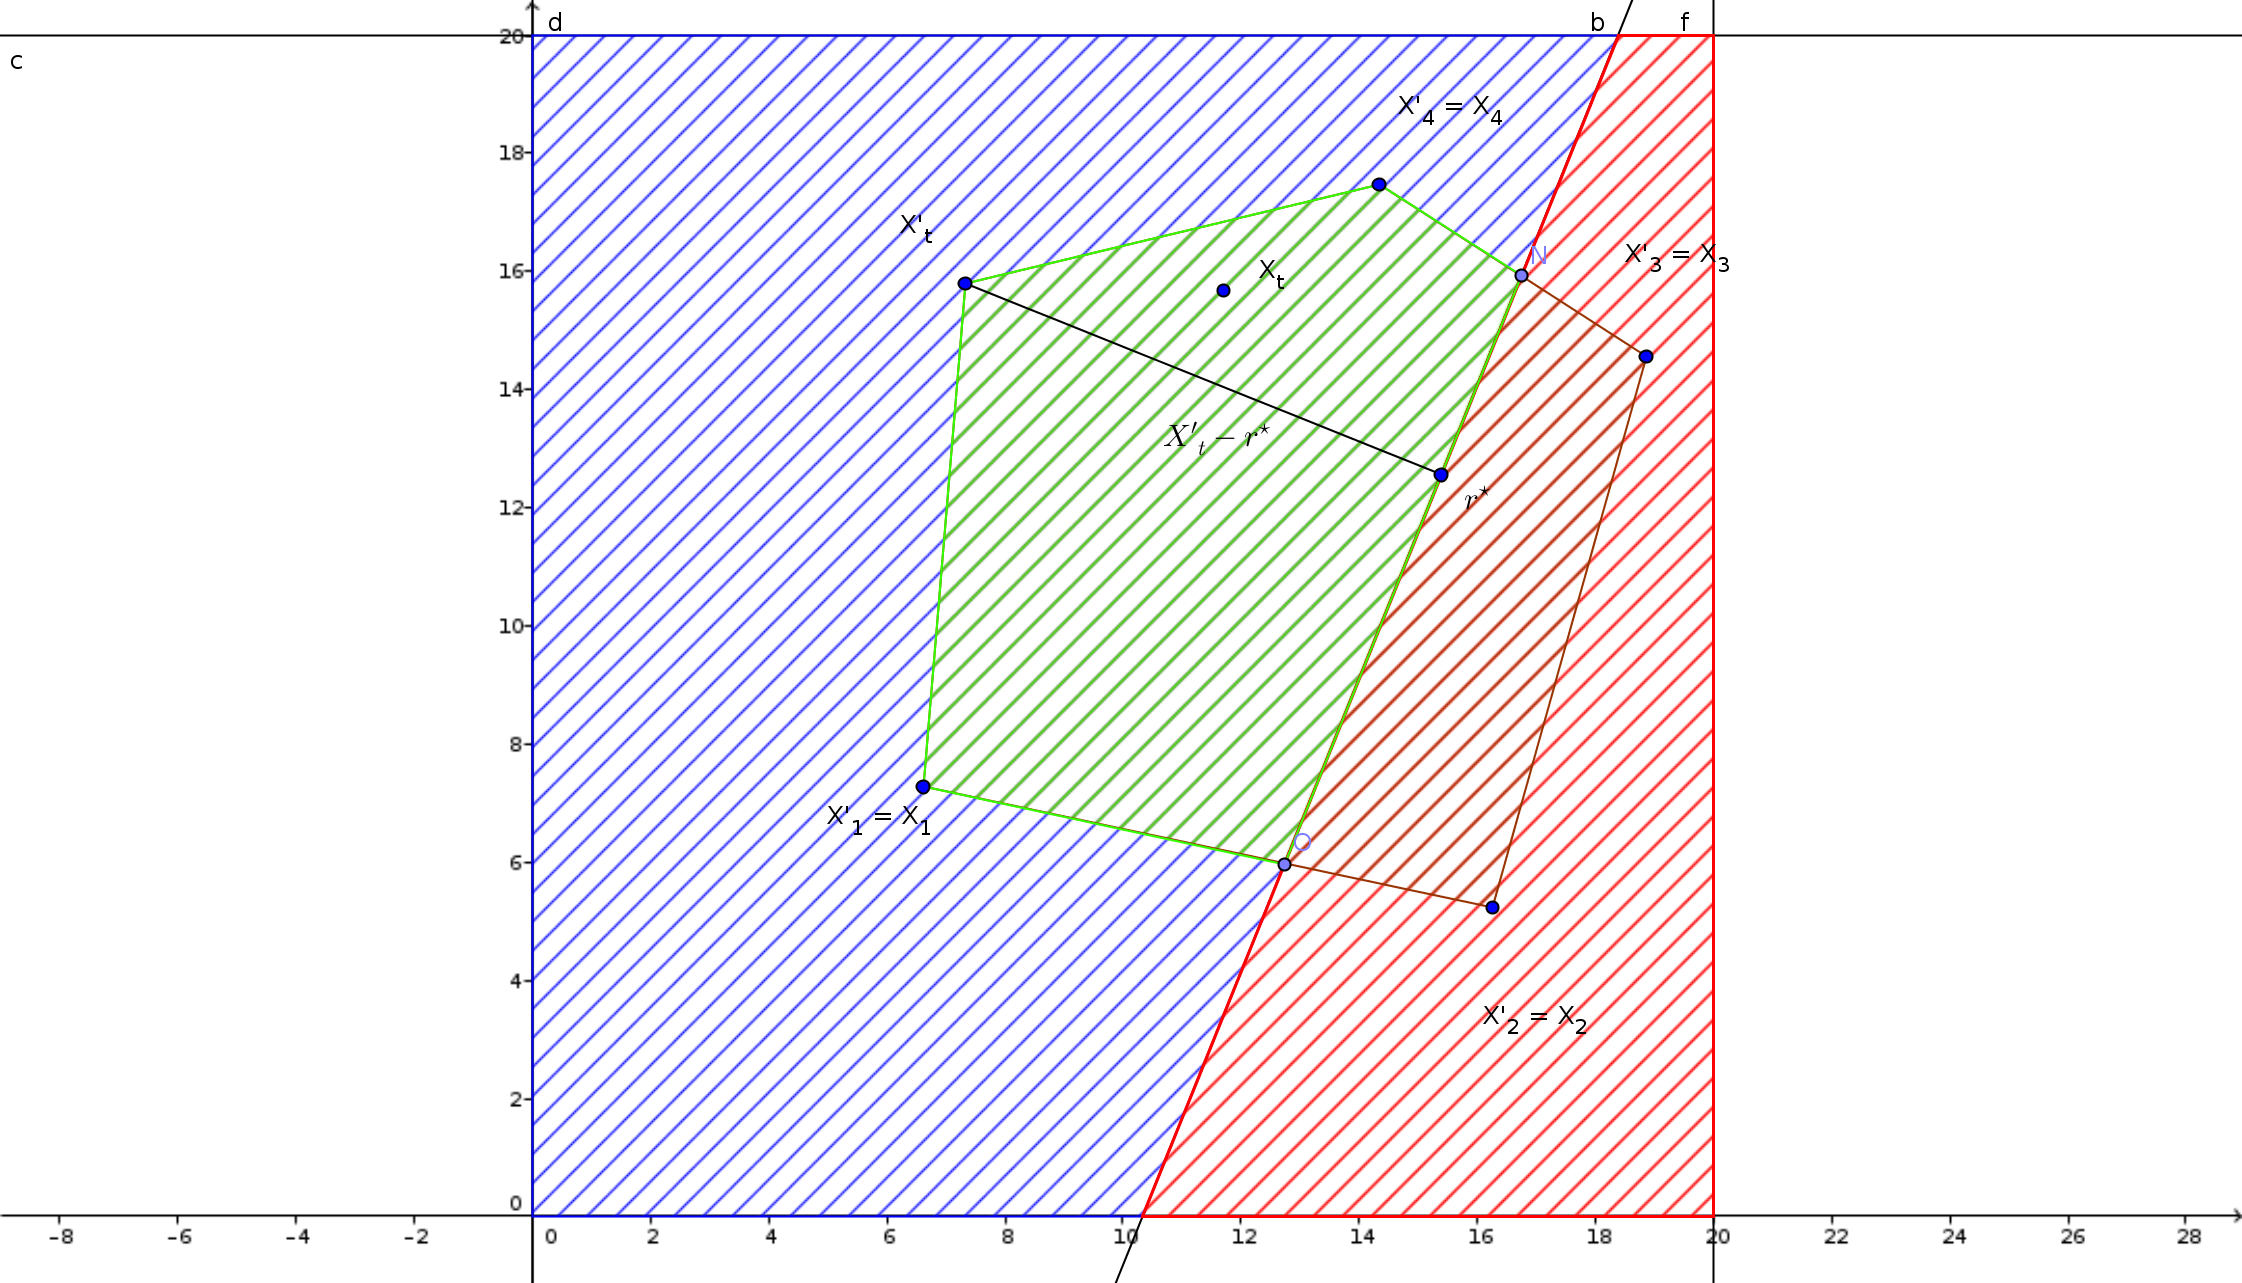
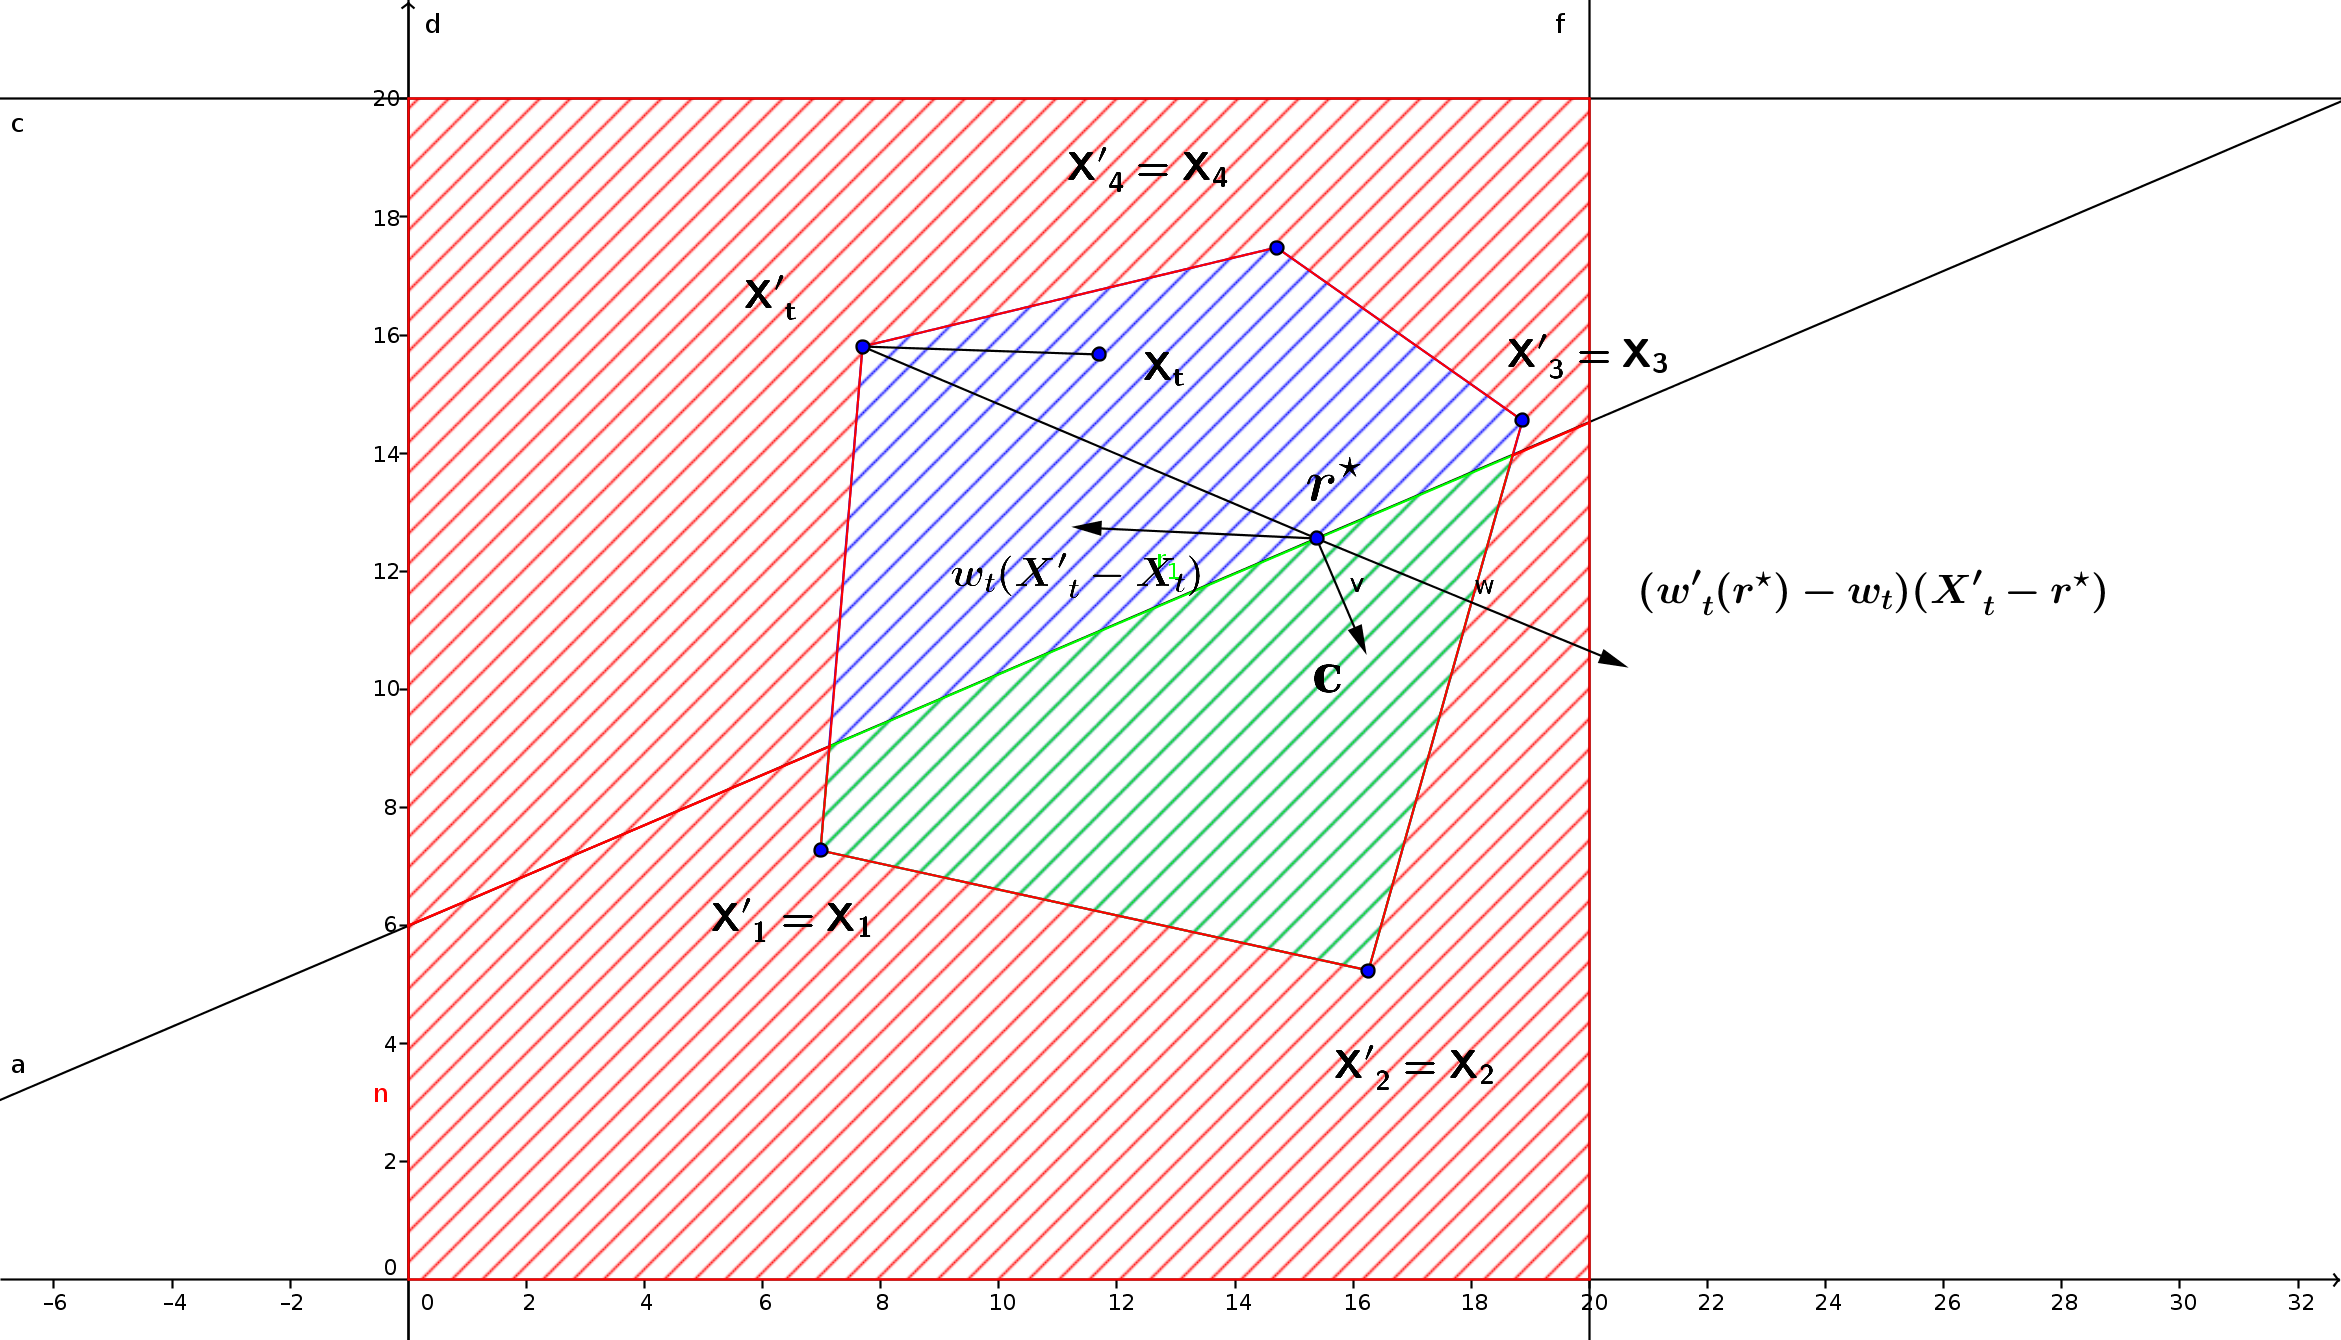
k

diff --git a/rapport/rapport.tex b/rapport/rapport.tex
@@ -1,4 +1,4 @@
-\documentclass[12pt,a4paper]{article}
+	\documentclass[12pt,a4paper]{article}
 \usepackage[utf8]{inputenc}
 \usepackage[english]{babel}
 \usepackage{amsmath}
@@ -18,12 +18,13 @@
 \newtheorem{theorem}{Theorem}
 \newtheorem{proposition}{Proposition}
 
-\title{Description of the project : Reputation of objects and reliability of judges}
+\title{Multi-characteristics reputation system using iterative filtering}
 \author{Malian De Ron \and Quentin Laurent}
 \begin{document}
 
 \maketitle
-
+\begin{abstract}
+In this work we present a reputation system in which \end{abstract}
 \tableofcontents
 \section{Introduction}
 \subsection*{Context}
@@ -233,7 +234,6 @@ $$\lim_{||r||\rightarrow \infty} E(r) = - \infty $$
 and the steepest descent direction on the boundary of $\mathcal{H}$ points strictly inside $\mathcal{H}$, then $E$ has a unique stationary point in $\mathcal{H}$ which is a minimum.
 \label{eq:poly}
 \end{lemma}
-\todo[inline]{Mettre la correction du lemme?}
 From which follows the following theorem
 \begin{theorem}
 If $k \in \mathcal{K}$, the system has a unique fixed point $r^{\star}$.\label{thm:uni}
@@ -378,9 +378,10 @@ When we applied this method, we are confronted with the choice of the parameter 
 That is why an alternative to a constant $k$ is proposed in \cite{Cristo1}. Instead of using a constant $k$, we use a sequence $k^t$. The sequence is such that at each iteration the weights are non-negative.
 $$ k^t : \min_i w_i^t = 0$$
 If the sequence converges, so does the iterative filtering, and we are left with a value of $k$ for which the weights are always positive.
-
-\todo[inline]{If time left : prove convergence}
+Although we didn't find any proof of the convergence of the sequence, we know that it is bounded below by zero and it is bounded above if there are at least 2 ratings for one characteristic of an object.	The sequence converged for every data set we tried. In general it is better to choose $k^t$ so that the smallest weight is slightly above zero to avoid numerical problems.
 But, we notice that the more cheaters there are, the smaller the highest possible $k$. As a result, there can be cheaters with very incoherent ratings that will reduce the maximum $k$, and hence will shield other more subtle cheaters weights from being heavily reduced.
+This is obviously a shortcoming of the model, but other methods such as the outlier method are also subject to such problems.
+
 \section{Cheating}
 How does a cheater determine which value to give his ratings in order to maximize a final rating? 
 \subsection{Intuitive cheating}
@@ -391,22 +392,22 @@ Let's take as usual a tensor of ratings $X$ and a matrix of reputations $r^{\sta
 
 So the modified tensor $X'$ is equal in all ratings to $X$, except in $(t,j,k)$ for all $j,k$ so that $A_{tjk}=1$. The resulting modified reputation matrix is $r'$. The new energy function relative to the modified ratings is $E'(r')$.
 \begin{lemma}
-The vector of reputation for the initial ratings $r^{\star}$ is actually the minimum of the new energy function subject to the constraint that $<(r'-r^{\star}),\nabla_{r'} E'(r') = 0$.
+The vector of reputation for the initial ratings $r^{\star}$ is actually the minimum of the new energy function subject to the constraint that $\langle (r'-r^{\star}),\nabla_{r'} E'(r')\rangle = 0$. In other words, 
 
 \begin{align*} 
- & E'(r^{\star}) = \min_{r'} E'(r')\\
-s.t.  & \:\: <r'-r^{\star},\nabla_{r'} E'(r^{\star})>=0
+ E'(r^{\star}) & = &  \min_{r'\in \mathcal{H}} & E'(r')& \\
+& & s.t.  \:\:  & \langle r'-r^{\star},\nabla_{r'} E'(r^{\star}) \rangle =0
 \end{align*}
 
 \begin{proof}
 The Lagrangian of the problem can be written as
-$$\mathcal{L}(r') = E'(r') - \lambda (<r' - r^{\star},\nabla_{r'} E'(r^{\star})>)$$
+$$\mathcal{L}(r') = E'(r') - \lambda (\langle r' - r^{\star},\nabla_{r'} E'(r^{\star}) \rangle )$$
 
-Using lemma \ref{eq:poly}, there cannot be maximas or saddle points in the domain and the minimum is unique in the domain. Hence there must be only one point in the restriction of $E'$ that satisfies the KKT conditions, and it will be the minimum.\\
+Using lemma \ref{eq:poly}, there cannot be maximas or saddle points in $\mathcal{H}$ and the minimum is unique in this domain. Hence there must be only one point in the restriction of $E'$ that satisfies the KKT conditions, and it will be the minimum.\\
 They can be written as follows :
 \begin{align*}
 \nabla_{r'} E'(r') - \lambda \nabla_{r'} E'(r^{\star}) & = & 0\\
-<r'-r^{\star},\nabla_{r'} E'(r^{\star})> & = & 0
+\langle r'-r^{\star},\nabla_{r'} E'(r^{\star}) \rangle & = & 0
 \end{align*}
 We can see that these conditions are satisfied for $r' = r^{\star}$ and $\lambda = 1$. So $r^{\star}$ is the minimum for $<r'-r^{\star},\nabla_{r'} E'(r^{\star})>=0$
 \end{proof}
@@ -415,37 +416,40 @@ We can see that these conditions are satisfied for $r' = r^{\star}$ and $\lambda
 
 \begin{proposition}
 The change of the ratings $X_{tjk}$ in new ratings $X'_{tjk}$ for some judge $t$ for all $j,k$ automatically leads to a new reputation tensor $r'^{\star}$ which satisfies 
-$$ <c, r'^{\star} - r^{\star}> \geq 0$$
-with $c_{jk} = X'_{tjk} - r^{\star}_{jk}$.
+$$ \langle c, r'^{\star} - r^{\star} \rangle \geq 0$$
+with $c_{jk} = ( w'_t(r^{\star})- w_t) (X'_{tjk}-r^{\star}_{jk}) + w_t(X'_{tjk}-X_{tjk}) $.
 \label{pr:hyperp}
 \begin{proof}
 Let us first look at the gradient of the energy function.
-$$\frac{\partial E'(r')}{r'_{jk}} = \sum_{i=1}^N w_i (-2 (X'{ijk}-r'_{jk})$$
+$$\frac{\partial E'(r')}{r'_{jk}} = \sum_{i=1}^N w_i(r') (-2 (X'{ijk}-r'_{jk})$$
 
 Let $w'(r')$ be the vector of new weights for the judges, computed from the new ratings ($X'$) and the reputations $r'$.
-If $r' = r^{\star}$, we know that since the ratings of all the normal judges haven't changed, their weights are also the same , thus $w'_i(r^{\star}) = w_i^{\star}$ for $i \neq t$. Hence we can write
-$$ \frac{\partial E'(r^{\star})}{r'_{jk}} = -2 w'_t(r^{\star}) (X'{tjk}-r'_{jk})$$
+If $r' = r^{\star}$, we know that since the ratings of all the normal judges haven't changed, their weights are also the same , thus $w'_i(r^{\star}) = w_i^{\star}$ for $i \neq t$. We also know that since $r^{\star}$ is the minimum of $E$, we have 
+$$ \frac{\partial E(r^{\star})}{r_{jk}} = \sum_{i=1}^N w_i (-2 (X{ijk}-r^{\star}_{jk})) = 0$$
+and 
+$$ \frac{\partial E'(r^{\star})}{r'_{jk}} = \frac{\partial E(r^{\star})}{r_{jk}}+2w_t(r^{\star})(X_{tjk}-r^{\star}_{jk})-2 w'_t(r^{\star}) (X'_{tjk}-r^{\star}_{jk}) $$
+Hence we can write
+$$ \frac{\partial E'(r^{\star})}{r'_{jk}} = -2 \left[ ( w'_t(r^{\star})- w_t) (X'_{tjk}-r^{\star}_{jk}) + w_t(X'_{tjk}-X_{tjk}) \right]$$
 
 When we compute the new reputation, we can start the iteration from the former $r^{\star}$. So we will use a sequence of $(r')^t$, $(w')^t$ which will converge towards $r'^{\star}$ and $(w')^{\star}$.
 We take $(r')^0 = r^{\star}$ and $(w')^0 = G(X',r^{\star})$. We know that the next iteration will be 
-$$ (r')^1 = (r')^0 - \alpha \nabla_{r'}E(r'){(r')^0}$$
-From this we can see that $<(r')^1 - (r')^0, \nabla_{r'}E((r')^0)>$ is less or equal to zero.
+$$ (r')^1 = (r')^0 - \alpha \nabla_{r'}E((r')^0)$$
+Since $\alpha$ is chosen greater than zero, we can see that $\langle (r')^1 - (r')^0, \nabla_{r'}E((r')^0) \rangle$ is less or equal to zero.
 Hence 
 \begin{eqnarray*}
-<(r')^1 - r^{\star}, \nabla_{r'}E(r^{\star})> & \leq & 0\\
-<(r')^1 - r^{\star}, -2 w'_t c> & \leq & 0\\
-<(r')^1 - r^{\star}, c> & \geq & 0
+\langle (r')^1 - r^{\star}, \nabla_{r'}E(r^{\star})\rangle & \leq & 0\\
+\langle (r')^1 - r^{\star}, -2 c\rangle & \leq & 0\\
+\langle (r')^1 - r^{\star}, c\rangle & \geq & 0
 \end{eqnarray*}
 Here we needed to assume again that the weights are non-negative for the iteration.
 
-At this point, we know that $<(r')^1 - r^{\star}, c>  \geq  0$.
-So now let's suppose that $<(r')^{\star} - r^{\star}, c>  <  0$. Hence there would be a point $\tilde{r}$ sitting on the line between $(r')^{\star}$ and $(r')^1$ which would satisfy $<\tilde{r}- r^{\star}, c> = 0 $. and Since $E'$ diminishes at every iteration it would imply that $E'(r'^{\star}) \leq E'(\tilde{r}) \leq E'((r')^1)$. That would imply that there is a local maximum on the restriction of $E'$ on the line between $(r')^{\star}$ and $(r')^1$, but that is impossible from lemma \ref{eq:poly}.
+At this point, we know that $\langle (r')^1 - r^{\star}, c\rangle  \geq  0$.
+So now let's suppose that $\langle(r')^{\star} - r^{\star}, c\rangle  <  0$. Hence there would be a point $\tilde{r}$ sitting on the line between $(r')^{\star}$ and $(r')^1$ which would satisfy $\langle \tilde{r}- r^{\star}, c\rangle = 0 $. and Since $E'$ diminishes at every iteration it would imply that $E'(r'^{\star}) \leq E'((r')^1) \leq E'(\tilde{r}) $. That would imply that there is a local maximum on the restriction of $E'$ on the line between $(r')^{\star}$ and $(r')^1$, but that is impossible from lemma \ref{eq:poly}.
 \end{proof}
 
 \end{proposition}
 
-The result of the previous theorem is illustrated in figure \ref{hyperp}, in which we can see in green the admissible region of the new reputations. It is the intersection of the convex hull of the rating of the judges and on the left side of the hyperplane
-described in proposition \ref{pr:hyperp}.
+The result of the previous theorem is illustrated in figure \ref{hyperp}, in which we can see in green the admissible region of the new reputations. It is the intersection of the convex hull of the rating of the judges and the half space described by the hyperplane described in proposition \ref{pr:hyperp}. We see that increasing a rating does not necessarily increase the reputation. Here indeed the weight of judge $t$, will diminish, which will lead to the reputation receding from the rating of judge $t$.
 \begin{figure}[h!]
 \centering
 \includegraphics[width = 12cm]{geogebra/Hyperplane.png}
@@ -480,11 +484,7 @@ The figure (\ref{fig:howto_weight}) show the evolution of the cheater's weight a
 \label{fig:howto_weight}
 \end{figure}
 
-
-
-\todo[inline]{Idée de proposition : quand on change $k$, l'ordre des poids ne changent pas. Aussi, la méthode est limitée par le fait qu'on peut mettre un énorme tricheur qui va fixer la valeur du $k$ possible et puis ensuite rajouter un tricheur un peu plus subtil qui va avoir un poids correct}
-
-\section*{Application to MAP scores}
+\section{Application to MAP scores}
 We were given the scores of the students in the applied mathematics program from 2011 to 2014. Here we did not expect to have significant results on the reliability of some teachers, since we can always choose the value of $k$ so that the least reliable judge has a weight zero. Instead, we discuss the preprocessing to apply to this data and the influence of several factors such as the number of rating of a judge with his weight.
 
 
@@ -629,7 +629,7 @@ In figure \ref{finalCheat} we can see a comparison of initial reputation, reputa
 \end{figure}
 
 
-\section*{Application to Hotels}
+\section{Application to Hotels}
 
 We were given the scores of the hotels in the subset database of TripAdvisor \footnote{http://times.cs.uiuc.edu/~wang296/Data/}. Here we did  expect to have significant results on the reliability of some users. Then we observe the robustness of the algorithm by injecting spammers.
 
@@ -683,7 +683,8 @@ We now added to the original data set one spammer per hotel giving always 0 exce
 
 Here, spammers are perfectly spotted and their weight is quite low.
 
-
+\FloatBarrier
+\section{Conclusion}
 
 \bibliographystyle{plain}
 \bibliography{rapport/bib/biblio}
